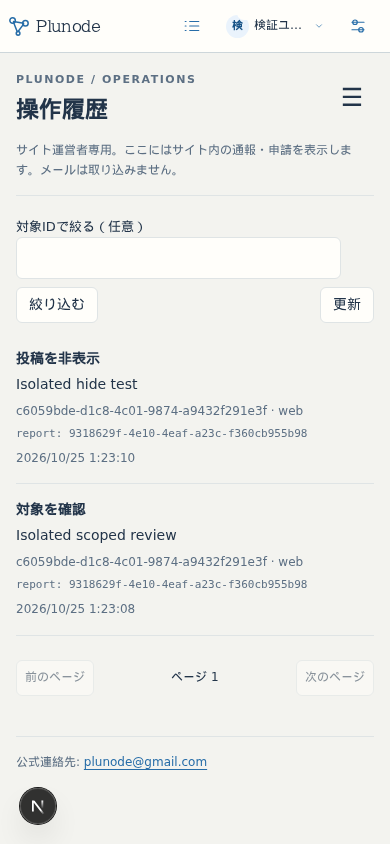
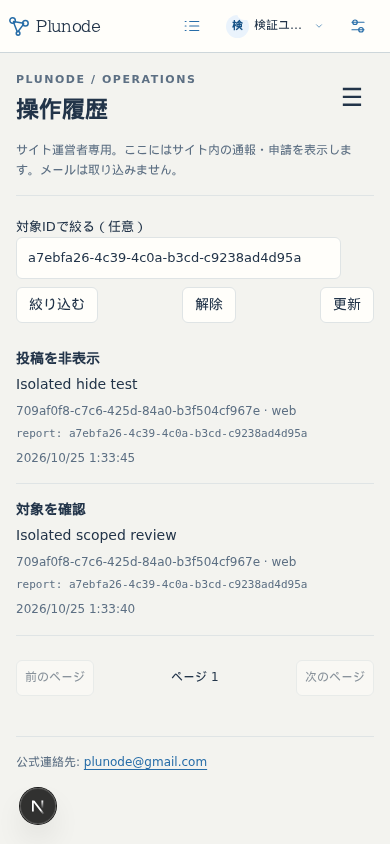
運営対象の不在時と案件別履歴の復帰を整える

diff --git a/components/OperationsPage.tsx b/components/OperationsPage.tsx
@@ -42,7 +42,7 @@ export function OperationsPage({dataset}:{dataset:DatasetMode}){
  const actionLabel=(a:string)=>({'inspect':t('対象を確認','Review target'),'hide-post':t('投稿を非表示','Hide post'),'unhide-post':t('サイト非表示を解除','Remove site hide'),'suspend-community':t('コミュニティを停止','Suspend community'),'resume-community':t('アーカイブ状態へ復帰','Restore as archived'),'resolve':t('対応終了','Resolve'),'dismiss':t('対応不要','Dismiss'),'suspend-user':t('アカウントを停止','Suspend account'),'resume-user':t('アカウントを再開','Resume account'),'approve':t('復帰申請を承認','Approve recovery'),'reject':t('復帰申請を却下','Reject recovery')}[a]??a);
  const term=(s:string)=>({post:t('投稿','Post'),thread:t('スレッド','Thread'),community:t('コミュニティ','Community'),spam:t('スパム','Spam'),harassment:t('嫌がらせ','Harassment'),privacy:t('プライバシー','Privacy'),other:t('その他','Other'),security:t('安全保護','Security'),abuse:t('濫用','Abuse'),request:t('本人依頼','Request'),correction:t('訂正','Correction')}[s]??s);
  const statusLabel=(s:string)=>({open:t('未対応','Open'),resolved:t('対応終了','Resolved'),dismissed:t('対応不要','Dismissed'),pending:t('申請中','Pending'),approved:t('承認済み・本人承諾待ち','Approved · awaiting consent'),rejected:t('却下','Rejected'),cancelled:t('取消','Cancelled'),consumed:t('承諾済み','Accepted'),active:t('活動中','Active'),archived:t('アーカイブ','Archived'),suspended:t('サイト停止中','Site suspended'),all:t('すべて','All')}[s]??s);
- const explain=(e:unknown)=>e instanceof MemberClientError?['HIDE_CASE_REQUIRED','SUSPENSION_CASE_REQUIRED'].includes(e.code)?t('解除には、現在の非表示・停止を実行した元の通報案件が必要です。操作履歴で対象の案件を確認してください。','Restore from the original report that applied the current hide or suspension. Check the case in audit history.'):e.code==='RECOVERY_READMISSION_REQUIRED'?t('再受入の明示承認が必要です。','Explicit readmission approval is required.'):e.code==='REPORT_CLOSED'?t('この通報は対応済み、または確認期限を過ぎています。','This report is closed or its review window has expired.'):e.status===403?t('サイト運営権限がありません。設定を確認してください。','Site operator access is required.'):e.status===401?t('ログインを再確認してください。','Please sign in again.'):e.status===409?t('状態が変わりました。再取得して確認してください。','State changed. Refresh and review it again.'):e.status===404?t('対象が見つからないか、この環境では無効です。','Not found or not enabled in this environment.'):t('取得できませんでした。再試行できます。','Could not load. Please retry.'):t('通信結果を確認できません。','The network result could not be confirmed.');
+ const explain=(e:unknown)=>e instanceof MemberClientError?['HIDE_CASE_REQUIRED','SUSPENSION_CASE_REQUIRED'].includes(e.code)?t('解除には、現在の非表示・停止を実行した元の通報案件が必要です。操作履歴で対象の案件を確認してください。','Restore from the original report that applied the current hide or suspension. Check the case in audit history.'):e.code==='ACCOUNT_NOT_FOUND'?t('このIDのアカウントは見つかりません。IDを確認して検索し直せます。','No account matches this ID. Check the ID and search again.'):e.code==='RECOVERY_READMISSION_REQUIRED'?t('再受入の明示承認が必要です。','Explicit readmission approval is required.'):e.code==='REPORT_CLOSED'?t('この通報は対応済み、または確認期限を過ぎています。','This report is closed or its review window has expired.'):e.status===403?t('サイト運営権限がありません。設定を確認してください。','Site operator access is required.'):e.status===401?t('ログインを再確認してください。','Please sign in again.'):e.status===409?t('状態が変わりました。再取得して確認してください。','State changed. Refresh and review it again.'):e.status===404?t('対象が見つからないか、この環境では無効です。','Not found or not enabled in this environment.'):t('取得できませんでした。再試行できます。','Could not load. Please retry.'):t('通信結果を確認できません。','The network result could not be confirmed.');
  const locationChange=useRef<(s:Section)=>void>(()=>{});
  useEffect(()=>{const read=()=>{const hash=location.hash.slice(1);locationChange.current(sections.includes(hash as Section)?hash as Section:'reports');setLocationReady(true);};queueMicrotask(read);addEventListener('hashchange',read);return()=>removeEventListener('hashchange',read);},[]);
  useEffect(()=>{generation.current++;controller.current?.abort();write.current?.abort();queueMicrotask(()=>{setSending(false);setUnknown(false);setAccountId('');setLookup('');setTarget('');setHistoryTarget('');setCursor(null);setStack([]);setDataKey('');setOwner(null);setItems([]);setAccount(null);setSelected(null);setIntent(null);setOutcome(null);setDenied(false);retry.current=null;setReason('');saved.current={};positions.current={};});},[identity.version]);
@@ -62,7 +62,7 @@ export function OperationsPage({dataset}:{dataset:DatasetMode}){
   memberRequest('/api/site-operations'+endpoint,z.union([accountSchema,z.object({operator:z.boolean()}),listSchema]),{user:user.id,signal:ac.signal}).then(data=>{
    if(ac.signal.aborted||seq!==generation.current||currentUser.current!==user.id)return;setOwner(user.id);setDataKey(queryKey);setDenied(false);setPaused(false);
    if('items'in data){setItems(data.items);setNext(data.nextCursor);setSelected(prev=>prev?data.items.find(r=>r.id===prev.id)??null:null);}else if('account'in data)setAccount(data.account);
-  }).catch(e=>{if(ac.signal.aborted||seq!==generation.current)return;setError(explain(e));if(e instanceof MemberClientError&&[401,403,404].includes(e.status)){setDenied(true);setOwner(null);setSelected(null);setIntent(null);setOutcome(null);setItems([]);setAccount(null);retry.current=null;}}).finally(()=>{if(seq===generation.current)setBusy(false);});
+  }).catch(e=>{if(ac.signal.aborted||seq!==generation.current)return;setError(explain(e));if(e instanceof MemberClientError&&(e.code==='ACCOUNT_NOT_FOUND'||section==='history'&&e.status===400)){setOwner(user.id);setDataKey(queryKey);setAccount(null);setItems([]);setNext(null);setSelected(null);setPaused(false);setDenied(false);}else if(e instanceof MemberClientError&&[401,403,404].includes(e.status)){setDenied(true);setOwner(null);setSelected(null);setIntent(null);setOutcome(null);setItems([]);setAccount(null);retry.current=null;}}).finally(()=>{if(seq===generation.current)setBusy(false);});
   return()=>ac.abort();
  // Locale does not change authorization or force a private-data refetch.
  // eslint-disable-next-line react-hooks/exhaustive-deps
@@ -87,14 +87,14 @@ export function OperationsPage({dataset}:{dataset:DatasetMode}){
  const guard=()=>!intent||window.confirm(unknown?t('結果不明の操作があります。履歴と状態を確認してから再操作してください。移動しますか？','Outcome unknown. Review history before acting again. Leave?'):t('未確定の入力を閉じて移動しますか？','Discard this unfinished input and leave?'));
  useEffect(()=>{if(!intent)return;const prevent=(e:BeforeUnloadEvent)=>{e.preventDefault();};window.addEventListener('beforeunload',prevent);return()=>window.removeEventListener('beforeunload',prevent);},[intent]);
  const nav=<nav aria-label={t('運営メニュー','Operations navigation')}>{sections.map(s=><button key={s} aria-current={section===s?'page':undefined} onClick={()=>move(s)}>{labels[s]}</button>)}<Link href="/member" onClick={e=>{if(!guard())e.preventDefault();}}>{t('アカウントへ','Account')}</Link><Link href="/communities" onClick={e=>{if(!guard())e.preventDefault();}}>{t('コミュニティを見つける','Discover communities')}</Link></nav>;
- const showHistory=(id:string)=>{setHistoryTarget(id);setCursor(null);setStack([]);setSelected(null);move('history');};
+ const showHistory=(id:string)=>{move('history');setHistoryTarget(id);setTarget(id);setCursor(null);setStack([]);setSelected(null);};
  const paged=(to:string|null)=>{setSelected(null);setOutcome(null);setCursor(to);window.scrollTo({top:0});};
  const visible=locationReady&&dataKey===queryKey&&owner===user?.id&&!identity.error&&!paused&&!denied;
  const summary=(r:Row)=><dl className={css.meta}><div><dt>ID</dt><dd>{value(r,'id')}</dd></div>{['target_kind','target_id','community_id','community_status','category','status','created_at','expires_at'].filter(k=>r[k]!==undefined).map(k=><div key={k}><dt>{{target_kind:t('対象種別','Target type'),target_id:t('対象ID','Target ID'),community_id:t('コミュニティID','Community ID'),community_status:t('場所の状態','Community state'),category:t('分類','Category'),status:t('状態','Status'),created_at:t('受付','Received'),expires_at:t('確認期限','Review until')}[k]}</dt><dd>{(k==='status'||k==='community_status')?statusLabel(value(r,k)):k.endsWith('_at')?new Date(value(r,k)).toLocaleString(ja?'ja-JP':'en-US'):term(value(r,k))}</dd></div>)}</dl>;
  return <><SiteHeader page="shared" dataset={dataset} onBeforeAccountNavigation={guard}/><div className={css.shell}><header className={css.heading}><div><div className={css.eyebrow}>PLUNODE / OPERATIONS</div><h1>{locationReady?labels[section]:t('サイト運営','Site operations')}</h1></div><button className={css.hamburger} aria-label={t('運営メニューを開く','Open operations menu')} aria-expanded={drawer} onClick={()=>setDrawer(true)}>☰</button></header><div className={css.layout}><aside className={css.sidebar}>{nav}</aside><main className={css.main}>
  <p className={css.notice}>{t('サイト運営者専用。ここにはサイト内の通報・申請を表示します。メールは取り込みません。','Site operators only. Reports and requests within Plunode; email is not imported.')}</p>
  {identity.status==='checking'?<p role="status">{t('認証を確認しています。','Checking your session…')}</p>:identity.status==='guest'?<p>{t('ログインしてから開いてください。','Sign in to continue.')} <Link href="/member" onClick={e=>{if(!guard())e.preventDefault();}}>{t('アカウント','Account')}</Link></p>:identity.error||identity.status==='error'?<p role="alert">{t('認証を確認できません。','Session verification failed.')}<button onClick={()=>void refreshMemberIdentity(true).then(reload,()=>{})}>{t('再確認','Retry')}</button></p>:null}
- {error&&<p role="alert" className={css.error}>{error} <button onClick={reload}>{t('再取得','Retry')}</button></p>}
+ {error&&<p role="alert" className={css.error}>{error} <button onClick={reload}>{t('再取得','Retry')}</button>{cursor&&<button onClick={()=>{setCursor(null);setStack([]);reload();}}>{t('先頭ページから再取得','Reload from first page')}</button>}</p>}
  {paused&&<p role="status">{t('運営権限を再確認しています。入力はこの画面内に保持します。','Rechecking operator access. Inputs stay in this page.')}</p>}
  {busy&&!visible&&<p role="status">{t('運営権限と一覧を確認しています。','Checking operator access and loading…')}</p>}
  {visible&&<>

diff --git a/tests/e2e/site-operations.spec.ts b/tests/e2e/site-operations.spec.ts
@@ -11,7 +11,7 @@ test('real report review, cancellation, unknown result replay and history on mob
  await row.getByRole('button',{name:'確認・対応'}).click();await page.getByRole('button',{name:'対象を確認',exact:true}).click();let dialog=page.getByRole('dialog');await dialog.getByRole('textbox').fill('Isolated scoped review');
  await page.evaluate(()=>{Object.defineProperty(document,'visibilityState',{configurable:true,get:()=>'hidden'});document.dispatchEvent(new Event('visibilitychange'));});await expect(dialog).toHaveCount(0);
  await page.evaluate(()=>{Object.defineProperty(document,'visibilityState',{configurable:true,get:()=>'visible'});document.dispatchEvent(new Event('visibilitychange'));});await expect(page.getByRole('dialog').getByRole('textbox')).toHaveValue('Isolated scoped review');
- await dialog.getByRole('button',{name:'確認する',exact:true}).click();await expect(dialog.getByText('Isolated reported content',{exact:true})).toBeVisible();await page.screenshot({path:info.outputPath('inspect-ja-390.png'),animations:'disabled'});await dialog.getByRole('button',{name:'閉じる',exact:true}).click();
+ await dialog.getByRole('button',{name:'確認する',exact:true}).click();await expect(dialog.getByText('Isolated reported content',{exact:true})).toBeVisible();await page.screenshot({path:info.outputPath('inspect-ja-390.png'),animations:'disabled'});await dialog.getByRole('button',{name:'閉じる',exact:true}).click();await page.getByRole('button',{name:'この案件の履歴',exact:true}).click();await expect(page.getByRole('heading',{name:'操作履歴',exact:true})).toBeVisible();await expect(page.getByLabel('対象IDで絞る（任意）')).toHaveValue(x.rid);await expect(page.locator('article').filter({hasText:'Isolated scoped review'})).toHaveCount(1);await nav(page,'運営受信箱',390);await expect(page.getByRole('heading',{name:'通報の確認と対応',exact:true})).toBeVisible();
  await page.getByRole('button',{name:'投稿を非表示',exact:true}).click();dialog=page.getByRole('dialog');await dialog.getByRole('textbox').fill('Cancel this draft');page.once('dialog',d=>d.accept());await dialog.getByRole('button',{name:'取消',exact:true}).click();await expect(dialog).toHaveCount(0);
   await page.getByRole('button',{name:'投稿を非表示',exact:true}).click();dialog=page.getByRole('dialog');await dialog.getByRole('textbox').fill('Scoped case denial test');await page.route('**/api/site-operations',r=>r.fulfill({status:403,contentType:'application/json',body:JSON.stringify({error:{code:'HIDE_CASE_REQUIRED'}})}));await dialog.getByRole('button',{name:'確定する',exact:true}).click();await expect(dialog.getByText(/元の通報案件が必要/)).toBeVisible();await expect(page.locator('main').getByText(/サイト運営権限がありません/)).toHaveCount(0);page.once('dialog',d=>d.accept());await dialog.getByRole('button',{name:'取消',exact:true}).click();await page.unroute('**/api/site-operations');
  await page.getByRole('button',{name:'投稿を非表示',exact:true}).click();dialog=page.getByRole('dialog');await dialog.getByRole('textbox').fill('Isolated hide test');let dropped=false;await page.route('**/api/site-operations',async route=>{if(!dropped){dropped=true;await route.fetch();await route.abort();}else await route.continue();});await dialog.getByRole('button',{name:'確定する',exact:true}).click();await expect(dialog.getByText(/結果が不明です/)).toBeVisible();await dialog.getByRole('button',{name:'同じ操作の結果を再確認',exact:true}).click();await expect(dialog).toHaveCount(0);await expect(page.getByText(/処理が完了し/)).toBeVisible();await page.unroute('**/api/site-operations');
@@ -23,7 +23,7 @@ for(const [lang,width,theme]of[['en',320,'light'],['ja',430,'dark-brown'],['en',
  await page.setViewportSize({width,height:844});await page.evaluate(({lang,theme})=>{localStorage.setItem('graph-knowledge.ui-locale.v1',lang);localStorage.setItem('graph-knowledge:appearance:v1',JSON.stringify({theme,palette:'brown'}));},{lang,theme});await page.goto('/operations#recoveries');const t=(j:string,e:string)=>lang==='ja'?j:e;
  await expect(page.getByRole('heading',{name:t('運営復帰申請','Recovery requests'),exact:true})).toBeVisible();await expect(page.locator('main').getByRole('alert')).toHaveCount(0);await page.locator('article').first().getByRole('button',{name:t('確認・対応','Review')}).click();
  await page.getByRole('button',{name:t('復帰申請を承認','Approve recovery'),exact:true}).click();const dialog=page.getByRole('dialog');await dialog.getByRole('textbox').fill('Isolated recovery decision');await dialog.getByRole('button',{name:t('確定する','Confirm action'),exact:true}).click();await expect(dialog).toHaveCount(0);
- await nav(page,t('アカウント対応','Accounts'),width);await page.getByLabel(t('対象アカウントID','Account ID')).fill(bid);await page.getByRole('button',{name:t('状態を確認','Look up')}).click();await expect(page.getByRole('heading',{name:t('アカウントの状態','Account status')})).toBeVisible();await page.screenshot({path:info.outputPath(`account-${lang}-${width}.png`),fullPage:true,animations:'disabled'});
+ await nav(page,t('アカウント対応','Accounts'),width);await page.getByLabel(t('対象アカウントID','Account ID')).fill(crypto.randomUUID());await page.getByRole('button',{name:t('状態を確認','Look up')}).click();await expect(page.getByText(t('このIDのアカウントは見つかりません。IDを確認して検索し直せます。','No account matches this ID. Check the ID and search again.'))).toBeVisible();await expect(page.getByRole('button',{name:t('状態を確認','Look up')})).toBeVisible();await page.getByLabel(t('対象アカウントID','Account ID')).fill(bid);await page.getByRole('button',{name:t('状態を確認','Look up')}).click();await expect(page.getByRole('heading',{name:t('アカウントの状態','Account status')})).toBeVisible();await page.screenshot({path:info.outputPath(`account-${lang}-${width}.png`),fullPage:true,animations:'disabled'});
  for(const action of ['suspend','resume']){const text=action==='suspend'?t('アカウントを停止','Suspend account'):t('アカウントを再開','Resume account');await page.getByRole('button',{name:text,exact:true}).click();const d=page.getByRole('dialog');await d.getByRole('textbox').fill('Isolated '+action+' test');await d.getByRole('button',{name:t('確定する','Confirm action'),exact:true}).click();await expect(d).toHaveCount(0);await expect(page.getByRole('button',{name:action==='suspend'?t('アカウントを再開','Resume account'):t('アカウントを停止','Suspend account'),exact:true})).toBeVisible();}
  await nav(page,t('運営受信箱','Inbox'),width);await page.screenshot({path:info.outputPath(`inbox-${lang}-${width}.png`),fullPage:true,animations:'disabled'});expect(await page.evaluate(()=>document.documentElement.scrollWidth<=innerWidth)).toBe(true);await other.close();
 });

diff --git a/tests/site-operations.integration.test.ts b/tests/site-operations.integration.test.ts
@@ -66,3 +66,4 @@ it('rolls back the shared mutation if its receipt cannot be committed',async()=>
 it('revoked reporter membership withholds content even on the same inspect retry',async()=>{const c=await make(b,'members');const inv=await call('/'+c.id+'/invitations',b,{expectedRevision:(await get(c.id,b)).revision,userId:d.id});expect(inv.status).toBe(201);const iid=(await inv.json()).id;expect((await call('/invitations/'+iid+'/accept',d,{expectedRevision:1})).status).toBe(200);const th=await call('/'+c.id+'/threads',b,{requestId:randomUUID(),expectedRevision:(await get(c.id,b)).revision,title:'Bounded private title',body:'Bounded private body',audience:'cohort'});expect(th.status).toBe(201);const tid=(await th.json()).id,posts=await(await call('/threads/'+tid,d)).json(),pid=posts.posts[0].id;const rr=await call('/reports',d,{requestId:randomUUID(),kind:'post',targetId:pid,expectedRevision:1,category:'privacy',detail:'Bounded private detail'});expect(rr.status).toBe(201);const input=reportAction((await rr.json()).id);expect((await(await op('',a,input)).json()).result.content.body).toBe('Bounded private body');await change(c.id,'remove',b,{userId:d.id});const hidden=await(await op('',a,input)).json();expect(hidden.result.content).toBeNull();expect(hidden.result.detail).toBeNull();});
 it('suspension and restoration use report-bound shared state, never reopening the community',async()=>{const x=await setup(),r=(await(await op('/reports',a)).json()).items.find((r:{id:string})=>r.id===x.rid);const stop={...reportAction(x.rid,'suspend-community'),expectedRevision:r.community_revision};expect((await op('',a,stop)).status).toBe(200);const current=(await pool().query('SELECT revision,status FROM community WHERE id=$1',[x.cid])).rows[0];expect(current.status).toBe('suspended');expect((await op('',a,{...stop,requestId:randomUUID(),action:'resume-community',expectedRevision:current.revision})).status).toBe(200);expect((await pool().query('SELECT status FROM community WHERE id=$1',[x.cid])).rows[0].status).toBe('archived');});
 it('rejects an inactive operator and expired recovery without changing the outcome',async()=>{await pool().query('UPDATE "user" SET active=false WHERE id=$1',[a.id]);try{expect((await op('/reports',a)).status).toBe(401);}finally{await pool().query('UPDATE "user" SET active=true WHERE id=$1',[a.id]);}const c=await make(b);await change(c.id,'leave',b);const rid=(await(await call('/'+c.id+'/recovery',b,{})).json()).id;await pool().query("UPDATE community_recovery SET expires_at=clock_timestamp()-interval '1 second' WHERE id=$1",[rid]);expect((await op('',a,{kind:'recovery',id:rid,requestId:randomUUID(),action:'reject',expectedRevision:1,reason:'Expired request test',readmit:false})).status).toBe(409);expect((await pool().query('SELECT status FROM community_recovery WHERE id=$1',[rid])).rows[0].status).toBe('pending');});
+it('distinguishes a missing account from operator revocation',async()=>{const response=await op('/account?id='+randomUUID(),a);expect(response.status).toBe(404);expect((await response.json()).error.code).toBe('ACCOUNT_NOT_FOUND');expect((await op('/session',a)).status).toBe(200);});

diff --git a/lib/server/member/site-operations.ts b/lib/server/member/site-operations.ts
@@ -32,7 +32,7 @@ export function createSiteOperationsService(pool:Pool,origin:string,owner:(req:R
    if(section==='session')return {operator:true,userId:u.id};
    if(section==='account'){
     const id=memberId(q.get('id')??'');
-    const r=(await c.query('SELECT id,active,"createdAt" AS created_at,"updatedAt" AS updated_at,"updatedAt"::text AS stamp FROM "user" WHERE id=$1',[id])).rows[0];if(!r)throw new MemberError(404,'NOT_FOUND');
+    const r=(await c.query('SELECT id,active,"createdAt" AS created_at,"updatedAt" AS updated_at,"updatedAt"::text AS stamp FROM "user" WHERE id=$1',[id])).rows[0];if(!r)throw new MemberError(404,'ACCOUNT_NOT_FOUND');
     return {account:{id:r.id,active:r.active,createdAt:r.created_at,updatedAt:r.updated_at,expectedState:accountState(r)}};
    }
    let sql='',values:unknown[]=[],policy='';const time='x.created_at',id='x.id';
@@ -72,7 +72,7 @@ export function createSiteOperationsService(pool:Pool,origin:string,owner:(req:R
     // Self suspension would invalidate the executing session midway through
     // its own response. Keep the emergency CLI for that exceptional action.
     if(input.id===u.id)throw new MemberError(409,'SELF_OPERATION_UNAVAILABLE');
-    const r=(await c.query('SELECT active,"updatedAt"::text AS stamp FROM "user" WHERE id=$1 FOR UPDATE',[input.id])).rows[0];if(!r)throw new MemberError(404,'NOT_FOUND');
+    const r=(await c.query('SELECT active,"updatedAt"::text AS stamp FROM "user" WHERE id=$1 FOR UPDATE',[input.id])).rows[0];if(!r)throw new MemberError(404,'ACCOUNT_NOT_FOUND');
     if(accountState(r)!==input.expectedState||r.active!==(input.action==='suspend-user'))throw new MemberError(409,'ACCOUNT_CHANGED');
     result=await operateMember(pool,{target:input.id,action:input.action,actor,reason:input.category},true,c);
    }

diff --git a/docs/verification/SITE_OPERATIONS_20261025.md b/docs/verification/SITE_OPERATIONS_20261025.md
@@ -22,11 +22,11 @@
 
 専用tmpfs PostgreSQL、実テストOIDC、実API、実処置サービスを使用。アプリ側への認証迂回や試作用role指定は追加していない。ブラウザ用運営者は、Web起動前にテストOIDCで本人を確定し、そのUUIDを検証プロセスだけへ明示設定する。
 
-- `scripts/test-member.ts --operations`：12件。実セッション・非運営者・Origin・actor偽装拒否、metadataだけの一覧、対象限定inspect、期限とreporter世代失効後の再送拒否、receipt本文非保存、非表示／解除、同時再送・異なる入力の再利用・古い版、署名cursorの全件走査とフィルター拘束、停止／再開とsession失効、運営許可取消、復帰承認と本人就任の分離、期限切れ復帰、記録保存失敗時の処置全体rollback。失敗注入時の汎用500ログは意図した結果で、本文・SQL・秘密値は出さない。
+- `scripts/test-member.ts --operations`：13件。実セッション・非運営者・Origin・actor偽装拒否、metadataだけの一覧、対象限定inspect、期限とreporter世代失効後の再送拒否、receipt本文非保存、非表示／解除、同時再送・異なる入力の再利用・古い版、署名cursorの全件走査とフィルター拘束、停止／再開とsession失効、運営許可取消、復帰承認と本人就任の分離、期限切れ復帰、記録保存失敗時の処置全体rollback、対象アカウント不在と運営権限取消の区別。失敗注入時の汎用500ログは意図した結果で、本文・SQL・秘密値は出さない。
 - 既存C3-min：14件合格。CLI経路・対象限定確認・停止／復帰・濫用制限・共有lockの回帰。
 - 既存C1a/C1b：29件合格。招待・再参加・世代・最後の管理者・退会・独立会話・ページング・投稿位置を含む。
 - 既存会員・個人Capsule：33件合格。停止dry-run、全session・共有失効、個人Capsule／限定共有／版別会話、DB初回停止と復旧を含む。一般会員profileの既存3フィールドは保持し、運営者だけ任意の表示用フラグを追加。
-- 運営UIの5シナリオ：JA390の通報→明示確認→取消→結果不明再送→一度だけの処置／履歴、EN320ライト／JA430ダーク／EN1440の復帰承認・アカウント停止／再開、認証遅延と運営拒否後の消去。最終変更後のJA390／EN1440の代表経路も再検証して合格。表示を隠した復帰で理由を保持し、再認可後にだけ再表示する。解除元caseの違いによる403を運営権限取消と混同せず、入力・画面を維持して元caseを案内する回帰も合格。
+- 運営UIの5シナリオ：JA390の通報→明示確認→取消→結果不明再送→一度だけの処置／履歴、EN320ライト／JA430ダーク／EN1440の復帰承認・アカウント停止／再開、認証遅延と運営拒否後の消去。最終変更後のJA390／EN1440の代表経路も再検証して合格。表示を隠した復帰で理由を保持し、再認可後にだけ再表示する。解除元caseの違いによる403を運営権限取消と混同せず、入力・画面を維持して元caseを案内する回帰も合格。対象不在404からの再検索、案件ID付きの履歴→元の詳細への復帰も最終版で合格。
 - 既存認証UIの重点3件合格：JA390の認証遅延と内部移動、招待到着のバッジ更新、hash除去の復帰。今回のbetaでは招待を送信していない。
 
 初回の画面試験で、Strict Mode再実行時のドロワーのフォーカス復帰を修正した。Nextの開発用空alertをアプリのエラーと混同しないよう試験の対象を本文へ限定した。初期fixtureの入力形式ミスは現行APIのuserId／cohortに合わせた。最終版で再試験し、失敗を残したまま合格とはしない。
